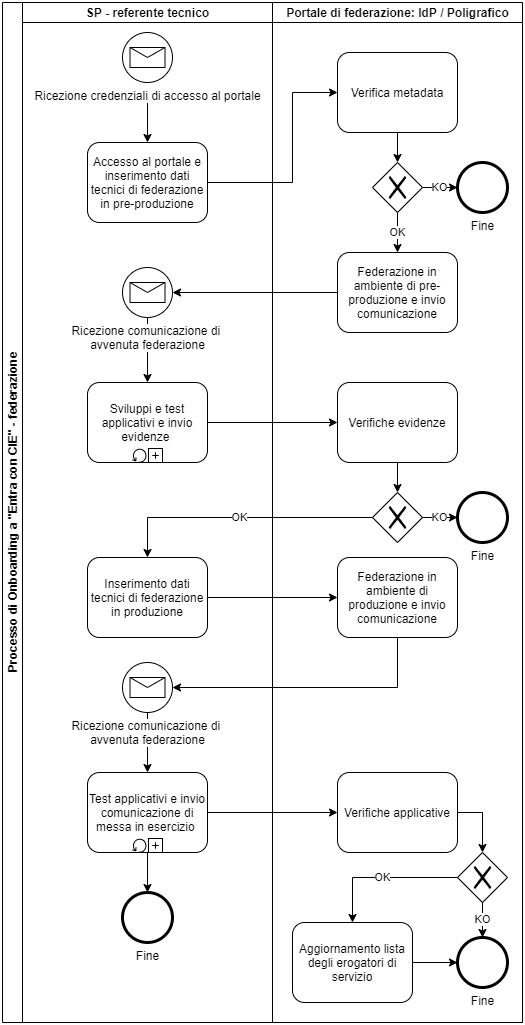
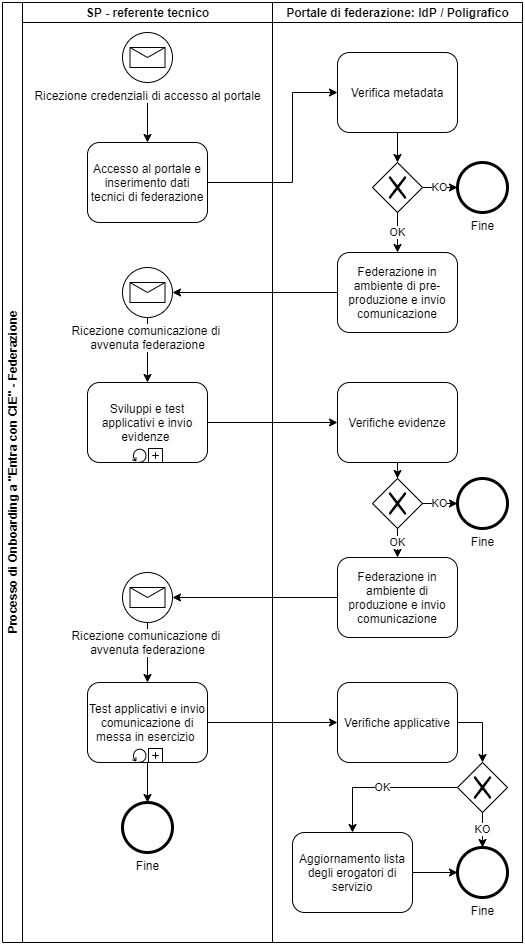
Typo fix and update of onboarding process

diff --git a/onboarding.rst b/onboarding.rst
@@ -8,14 +8,14 @@ La fase di onboarding costituisce il prerequisito fondamentale per il processo d
 In particolare il `portale di federazione erogatori di sevizi <https://www.federazione.servizicie.interno.gov.it>`__ consente al Service Provider di:
 
    - registrarsi ed effettuare facilmente la richiesta di adesione 
-   - federare i metadata e ricevere immediatamente l’esito della federazione
+   - federare i metadata e ricevere l’esito della federazione
    - verificare in ogni istante lo stato delle attività
 
 I principali vantaggi che derivano dall'utilizzo del portale di federazione sono: 
 
    - gestione e controllo dell’intero ciclo di vita: federazione, sviluppo, test, produzione, esercizio e conduzione operativa;
    - snellimento delle procedure amministrative e tecniche di onboarding;
-   - processo di federazione e configurazione automatizzato e più efficiente. 
+   - processo di federazione e configurazione più efficiente. 
 
 
 Il processo di onboarding puó essere suddiviso in quattro sottofasi distinte:
@@ -41,15 +41,15 @@ Il processo di onboarding puó essere suddiviso in quattro sottofasi distinte:
 
 Il Service Provider, nella figura di un referente amministrativo designato a svolgere tale attività, effettua la registrazione al portale, compila i principali dati amministrativi relativi al soggetto (pubblico o privato) che richiede l'adesione allo schema "Entra con CIE" e identifica un referente tecnico che può essere interno al Service Provider o esterno (partner tecnilogico). Il referente tecnico ha in carico le attività tecniche di federazione, intergrazione dello schema all'interno dei servizi online del Service Provider e messa in esercizio finale. Rappresenta, inoltre, l'unica interfaccia tecnica con l'Identity Provider per eventuali comunicazioni di natura tecnica e/o attività di supporto per la risoluzioni di eventuali problemi in fase di integrazione. Il flusso di onboarding prevede, nello specifico, i seguenti passi operativi:
 
-   1. Il referente amministrativo, conclusa con successo la fase di registrazione al portale, riceve le credenziali per l'accesso al portale
+   1. Il referente amministrativo, conclusa con successo la fase di registrazione al portale, riceve le credenziali per l'accesso al portale;
    2. Il referente amministrativo accede al portale e inserisce i dati amministrativi e relativi al referente tecnico designato;
-   3. L'IdP, raccolte tutte le evidenze e, effettuate le virifiche previste dal processo di onboarding, fornisce l'autorizzazione formale a procedere con la federazione e invia al referente tecnico individuato dal SP le credenziali di accesso al portale
-   4. Il referente tecnico accede al portale e compila i dati tecnici necessari per la federazione (ad es. carica i metadata di pre-produzione)
-   5. Il Poligrafico, nel ruolo di partner tecnologico del Ministero dell'Interno, effettua la federazione nell'ambiente di pre-produzione dell'IdP 
-   6. Il SP o eventualmente il partner tecnologico effettua le attività di sviluppo e test per consentire l'integrazione dello schema "Entra con CIE" per l'accesso ai servizi online del SP;
-   7. Concluse le attività di integrazione, il referente tecnico raccoglie le evidenze di corretta implementazione in formato immagine (screenshot) e li carica all'interno del portale di federazione per consentire le opportune verifiche da parte dell'IdP;
-   8. Conlcuse le verifiche applicative, il referente tecnico inserisce nel portale i metadata di produzione.
-   9. Effettuati gli ultimi test in ambiente di produzione, il referente tecnico comunica, tramite apposita funzionalità esposta dal portale di federazione, la pubblicazione e la messa in esercizio finale del servizio.
+   3. Il referente amministrativo, scarica il modulo riepilogativo con i dati precedentemente inseriti e, una volta verificato il contenuto e sottoscritto tramite firma digitale dal legale rappresentante del Service Provider, lo carica sul portale;
+   4. L'IdP, raccolte tutte le evidenze e, effettuate le verifiche previste dal processo di onboarding, fornisce l'autorizzazione formale a procedere con la federazione e invia al referente tecnico individuato dal SP le credenziali di accesso al portale;
+   5. Il referente tecnico accede al portale e compila i dati tecnici necessari per la federazione (ad es. carica i metadata);
+   6. Il Poligrafico, nel ruolo di partner tecnologico del Ministero dell'Interno, effettua la federazione nell'ambiente di pre-produzione dell'IdP;
+   7. Il Service Provider o eventualmente il partner tecnologico effettua le attività di sviluppo e test per consentire l'integrazione dello schema "Entra con CIE" per l'accesso ai servizi online del Service Provider;
+   8. Concluse le attività di integrazione, il referente tecnico raccoglie le evidenze di corretta implementazione in formato immagine (screenshot) e li carica all'interno del portale di federazione per consentire le opportune verifiche da parte dell'IdP;
+   9. Effettuati gli ultimi test in ambiente di produzione, il referente tecnico comunica, tramite apposita funzionalità esposta dal portale di federazione, la pubblicazione e la messa in esercizio finale del servizio;
    10. L'IdP, avvalendosi del Poligrafico, effettua le verifiche applicative di corretto funzionamento dello schema di identificazione e provvede ad aggiornare l'elenco degli erogatori di servizi abilitati che hanno concluso con successo l'iter di accreditamento allo schema "Entra con CIE".
 
 Nei successivi paragrafi vengono descritti i principali processi di business previsti per completare l'onboarding allo schema "Entra con CIE".
@@ -90,7 +90,7 @@ Ricevute le credenziali di accesso, il referente amministrativo può quindi acce
       - al Service Provider (eventualmente può essere indicato lo stesso referente amministrativo);
       - al partner tecnologico (in presenza di più partner tecnologico per uno stesso Service Provider è obbligatorio indicarne uno solo fra essi che svolgerà il ruolo di interfaccia tecnica con l'IdP)
 
-Al termine dell'inserimento dei suddetti dati, questi ultimi vengono presentati al referente amministrativo in un modulo riepilogativo disponibile per il download. Il modulo in formato *pdf*, opportunamente compilato e sottoscritto dal legale rappresentante del Service Provider, deve essere caricato nel portale per consentire all'IdP di effettuare le opportune verifiche volte all'autorizzazione formale alla federazione. Concluso con successo l'iter autorizzativo, vengono inviate le credenziali di accesso al portale direttamente al referente tecnico indicato in fase di richiesta di adesione.
+Al termine dell'inserimento dei suddetti dati, questi ultimi vengono presentati al referente amministrativo in un modulo riepilogativo disponibile per il download. Il modulo in formato *pdf*, opportunamente verificato e sottoscritto dal legale rappresentante del Service Provider, deve essere caricato nel portale per consentire all'IdP di effettuare le opportune verifiche volte all'autorizzazione formale alla federazione. Concluso con successo l'iter autorizzativo, vengono inviate le credenziali di accesso al portale direttamente al referente tecnico indicato in fase di richiesta di adesione.
 
 .. figure:: ./media/onboardingBPM-Richiesta_di_adesione.png
    :alt: Richiesta di adesione
@@ -123,6 +123,6 @@ Ricevute le credenziali di accesso, il referente tecnico, accedendo direttamente
 
    Processo di richiesta di federazione.
 
-Il referente tecnico, in fase di richiesta di federazione deve inserire i dati tecnici relativi alla federazione in ambiente di pre-produzione e produzione. In particolare, oltre alle URI dei servizi online per i quali si richiede l'utilizzo dello schema "Entra con CIE", il referente tecnico deve effettuare l'upload del file dei metadata di pre-produzione al termine del quale, viene effettuata una verifica formale sulla correttezza dello stesso. Ad esito positivo, viene inviata relativa comunicazione al referente tecnico, il quale può, dunque, procedere con la fase di sviluppo, integrazione e test. Al termine di tale fase, il referente tecnico deve caricare sul portale le evidenze di corretta implementazione al fine di consentire all'IdP di effettuare le opportune verifiche propedeutiche alla federazione in produzione (per i dettagli tecnici cfr. il `Manuale tecnico per i fornitori di servizi pubblici e privati <https://docs.italia.it/italia/cie/cie-manuale-tecnico-docs>`__). A fronte di un esito positivo delle suddette verifiche, il refente tecnico può effettuare l'upload del file di metadata di produzione per le verifiche formali di federazione. Infine, ultimati i test in ambiente di produzione, il refente tecnico, tramite il portale, comunica all'IdP la pubblicazione dei servizi online che consentono l'accesso tramite lo schema "Entra con CIE". 
+Il referente tecnico, in fase di richiesta di federazione deve inserire i dati tecnici relativi alla federazione in ambiente di pre-produzione e produzione. In particolare, oltre alle URI dei servizi online per i quali si richiede l'utilizzo dello schema "Entra con CIE", il referente tecnico deve effettuare l'upload dei file dei metadata al termine del quale, viene effettuata una verifica formale sulla correttezza degli stessi. Ad esito positivo, l'IdP effettua la federazione in ambiente di pre-produzione e viene inviata relativa comunicazione al referente tecnico, il quale può, dunque, procedere con la fase di sviluppo, integrazione e test. Al termine di tale fase, il referente tecnico deve caricare sul portale le evidenze di corretta implementazione al fine di consentire all'IdP di effettuare le opportune verifiche propedeutiche alla federazione in produzione (per i dettagli tecnici cfr. il `Manuale tecnico per i fornitori di servizi pubblici e privati <https://docs.italia.it/italia/cie/cie-manuale-tecnico-docs>`__). A fronte di un esito positivo delle suddette verifiche, il refente tecnico può effettuare i test conclusivi in ambiente di produzione, e, tramite il portale, comunica all'IdP la pubblicazione dei servizi online che consentono l'accesso tramite lo schema "Entra con CIE". 
 
 

diff --git a/index.rst b/index.rst
@@ -7,8 +7,8 @@ Manuale operativo per i fornitori di Servizi Pubblici e Privati
    \makeatletter\@openrightfalse
 	\chapter{Introduzione}
 
-Scopo del presente documento è descrivere le modalità operative per l'introduzione nei servizi erogati in rete dalle Pubbliche Amministrazioni e dalle organizzazioni private dell'identificazione del richiedente il servizio attraverso l'utilizzo della Carta di Identità Elettronica (“CIE 3.0”) come previsto dall'`art. 64 del CAD <https://docs.italia.it/italia/piano-triennale-ict/codice-amministrazione-digitale-docs/it/stabile/_rst/capo5_sezione3_art64.html>`__), così come modificato dall' art. 24, comma 1 – lett. e) nn. 3) e 6) - del `Decreto Legge 16 luglio 2020, n. 76 recante “Misure urgenti per la semplificazione e l'innovazione digitale” (“Decreto Semplificazioni”) <https://www.gazzettaufficiale.it/eli/id/2020/09/14/20A04921/sg>`__, convertito, con modificazioni, dalla `L. 11 settembre 2020, n.120 <https://www.gazzettaufficiale.it/eli/id/2020/09/14/20G00139/sg>`__.
-Lo schema di identificazione basato sulla CIE 3.0 dettagliato nel presente documento è compatibile con il Level of Assurance 4 (HIGH) del `regolamento UE 910/2014 <https://eur-lex.europa.eu/legal-content/IT/TXT/HTML/?uri=CELEX:32014R0910&from=EN>`__ eIDAS (`GUUE C309 del 13 settembre 2019 <https://eur-lex.europa.eu/legal-content/IT/TXT/PDF/?uri=OJ:C:2019:309:FULL&from=EN>`__) e consente ai cittadini di fruire dei servizi offerti online dalle Pubbliche Amministrazioni e dei soggetti privati utilizzando gli elementi di sicurezza presenti sulla propria CIE (chiavi crittografiche protette da PIN e Certificati) come credenziali per la propria identificazione.
+Scopo del presente documento è descrivere le modalità operative per l'adozione della Carta di Identità Elettronica (CIE) come strumento di accesso ai servizi erogati in rete dalle Pubbliche Amministrazioni e dalle organizzazioni private come previsto dall'`art. 64 del CAD <https://docs.italia.it/italia/piano-triennale-ict/codice-amministrazione-digitale-docs/it/stabile/_rst/capo5_sezione3_art64.html>`__), così come modificato dall' art. 24, comma 1 – lett. e) nn. 3) e 6) - del `Decreto Legge 16 luglio 2020, n. 76 recante “Misure urgenti per la semplificazione e l'innovazione digitale” (“Decreto Semplificazioni”) <https://www.gazzettaufficiale.it/eli/id/2020/09/14/20A04921/sg>`__, convertito, con modificazioni, dalla `L. 11 settembre 2020, n.120 <https://www.gazzettaufficiale.it/eli/id/2020/09/14/20G00139/sg>`__.
+Lo schema di identificazione basato sulla CIE, dettagliato nel presente documento, è compatibile con il Level of Assurance 4 (HIGH) del `regolamento UE 910/2014 <https://eur-lex.europa.eu/legal-content/IT/TXT/HTML/?uri=CELEX:32014R0910&from=EN>`__ eIDAS (`GUUE C309 del 13 settembre 2019 <https://eur-lex.europa.eu/legal-content/IT/TXT/PDF/?uri=OJ:C:2019:309:FULL&from=EN>`__) e consente ai cittadini di fruire dei servizi offerti online dalle Pubbliche Amministrazioni e dei soggetti privati utilizzando gli elementi di sicurezza presenti sulla propria CIE (chiavi crittografiche protette da PIN e Certificati) come credenziali per la propria identificazione.
 
 
 .. toctree::

diff --git a/supporto.rst b/supporto.rst
@@ -3,7 +3,7 @@ Assistenza tecnica
 
 Le eventuali richieste di assistenza e supporto operativo alle procedure amministrative e tecniche, successive alla fase di registrazione, devono avvenire esclusivamente attraverso i canali inseriti in fase di domanda formale di adesione allo schema "Entra con CIE", inviando una apposita richiesta di supporto all'indirizzo di posta elettronica cie.enti@interno.it.
 
-In caso di assistenza realativa alla fase di registrazione del Service Provider, quest'ultimo deve inviare una richiesta di assistenza tramite un indirizzo PEC del Service Provider all'indirizzo di posta elettronica cie.enti@interno.it.
+In caso di assistenza relativa alla fase di registrazione del Service Provider, quest'ultimo deve inviare una richiesta di assistenza tramite un indirizzo PEC del Service Provider all'indirizzo di posta elettronica cie.enti@interno.it.
 
 In caso di disservizio e/o problematiche di sicurezza il Ministero Interno, eventualmente avvalendosi del Poligrafico, si avvale dei canali (indirizzo mail/telefono) dei referenti comunicati in fase di onboarding.
 
